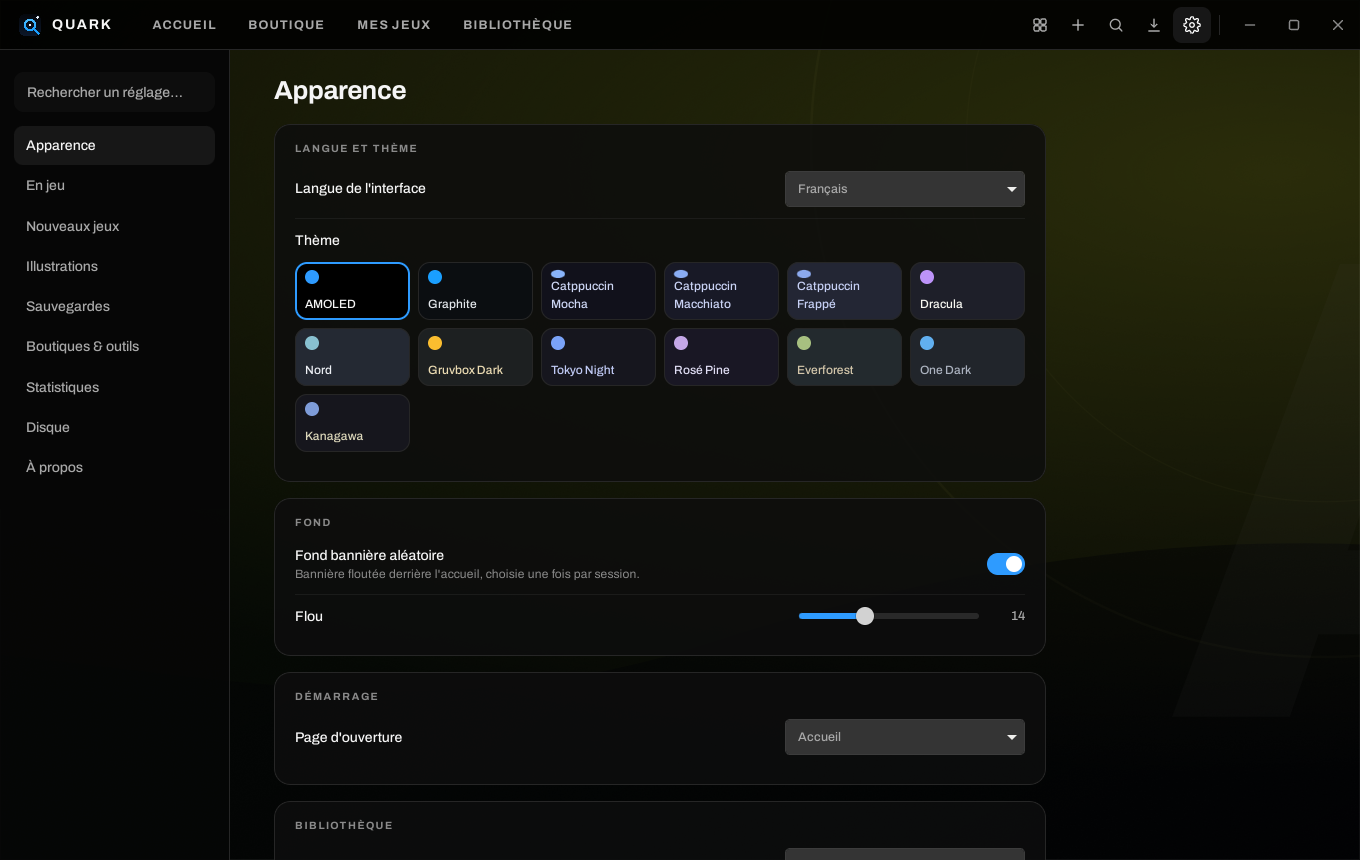
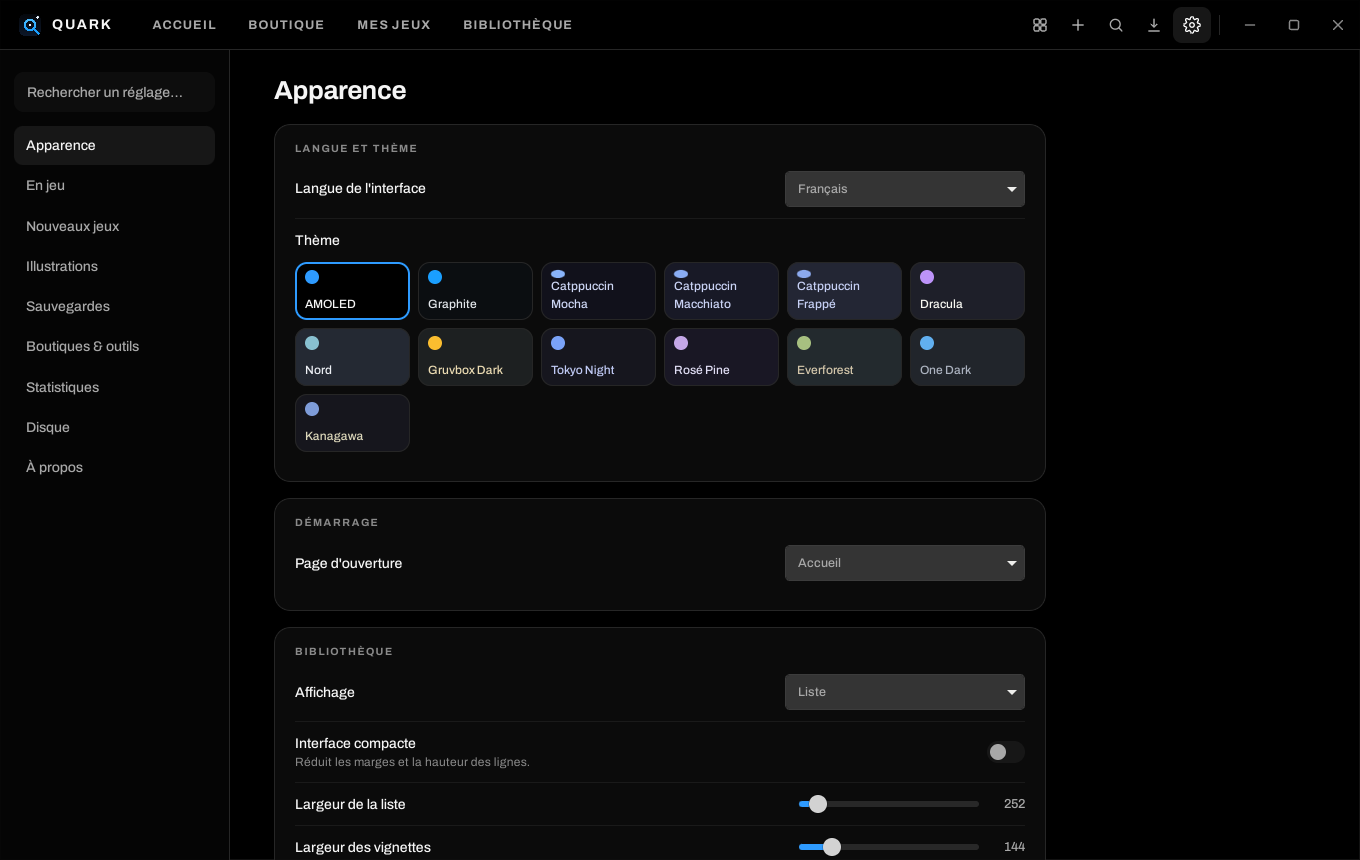
feat(ui): remove random hero background

diff --git a/quark-tauri/ui/settings.js b/quark-tauri/ui/settings.js
@@ -15,7 +15,6 @@ function tabsDef() {
     appearance: () => [
       card(L("Langue et thème", "Language and theme"), selk("ui_language", L("Langue de l'interface", "Interface language"), app.data.languages.map((l) => [l.id, l.label])),
         `<div class="sw col" data-s="theme thème"><span>${esc(t("settings.theme"))}</span><div class="themes">${app.data.themes.map((th) => `<button class="th${th.id === c.theme ? " on" : ""}" data-theme="${th.id}" style="background:${th.vars.bg};color:${th.vars.text}"><i style="background:${th.vars.accent}"></i>${esc(th.label)}</button>`).join("")}</div></div>`),
-      card(L("Fond", "Background"), swk("hero_background", L("Fond bannière aléatoire", "Random hero background"), L("Bannière floutée derrière l'accueil, choisie une fois par session.", "Blurred banner behind Home, picked once per session.")), rangek("hero_background_blur", L("Flou", "Blur"), 0, 40, 1)),
       card(L("Démarrage", "Startup"), selk("start_page", L("Page d'ouverture", "Startup page"), [["home", t("x.home")], ["library", t("nav.library")], ["store", t("x.store")], ["my_games", t("x.mygames")]])),
       card(t("nav.library"), selk("view", L("Affichage", "Layout"), [["list", L("Liste", "List")], ["grid", L("Grille", "Grid")]]), swk("ui_compact", t("settings.compact"), t("settings.compactHint")),
         rangek("sidebar_width", L("Largeur de la liste", "List width"), 240, 420, 10), rangek("grid_tile_width", L("Largeur des vignettes", "Tile width"), 120, 260, 10),
@@ -109,7 +108,7 @@ function bindSettings() {
   const root = $("#sheet");
   bindModel(root, app.cfg, (k) => {
     const top = k.split(".")[0], patch = { [top]: app.cfg[top] };
-    run(() => cfgSet(patch)).then(() => { if (k === "tray_icon") invoke("tray_visibility", { visible: !!app.cfg.tray_icon }).catch(() => {}); if (k === "deck_mode") { QuarkDeck.mode(app.cfg.deck_mode); renderTop(); } else if (k === "ui_language" || k === "ui_compact" || k === "game_actions") { renderAllKeepScroll(); } else if (k === "view") renderTop(); else if (k === "hero_background") applySettings(); });
+    run(() => cfgSet(patch)).then(() => { if (k === "tray_icon") invoke("tray_visibility", { visible: !!app.cfg.tray_icon }).catch(() => {}); if (k === "deck_mode") { QuarkDeck.mode(app.cfg.deck_mode); renderTop(); } else if (k === "ui_language" || k === "ui_compact" || k === "game_actions") { renderAllKeepScroll(); } else if (k === "view") renderTop(); });
   });
   $$('[data-k="screenshot_key"]', root).forEach((el) =>
     el.addEventListener("change", () => run(async () => {

diff --git a/quark-tauri/ui/core.js b/quark-tauri/ui/core.js
@@ -28,7 +28,7 @@ Object.assign(I18N.en, {
 });
 
 const app = { data: null, cfg: {}, lang: "fr", view: "library", sel: null, query: "", f: { status: "", genre: "", tag: "", fav: false }, running: new Map(), tab: "overview", marked: new Set(),
-  cache: {}, transfers: new Map(), open: true, collapsed: new Set(), pal: null, bgGame: null, stab: "appearance", sq: "" };
+  cache: {}, transfers: new Map(), open: true, collapsed: new Set(), pal: null, stab: "appearance", sq: "" };
 const $ = (s, r = document) => r.querySelector(s);
 const $$ = (s, r = document) => Array.from(r.querySelectorAll(s));
 const esc = (v) => String(v ?? "").replace(/[&<>"']/g, (c) => ({ "&": "&amp;", "<": "&lt;", ">": "&gt;", '"': "&quot;", "'": "&#39;" })[c]);
@@ -136,9 +136,7 @@ function applySettings() {
   for (const [k, v] of Object.entries(th.vars)) root.setProperty(`--${k}`, v);
   const lum = (h) => { const n = parseInt(h.slice(1), 16); return (0.299 * (n >> 16) + 0.587 * ((n >> 8) & 255) + 0.114 * (n & 255)) / 255; };
   root.setProperty("--on-accent", lum(th.vars.accent) > 0.6 ? "#05070a" : "#fff");
-  root.setProperty("--bgblur", `${Math.round(c.hero_background_blur ?? 18)}px`);
   root.setProperty("--sidew", `${Math.round(c.sidebar_width || 300)}px`);
   document.body.classList.toggle("compact", !!c.ui_compact);
   app.lang = LANGS[c.ui_language] || "fr"; document.documentElement.lang = app.lang;
-  const bg = $("#bg"); if (bg) { const g = app.bgGame && game(app.bgGame); bg.style.backgroundImage = c.hero_background && g && g.heroUrl ? `url('${g.heroUrl}')` : "none"; }
 }

diff --git a/quark-tauri/ui/styles.css b/quark-tauri/ui/styles.css
@@ -12,7 +12,6 @@ button,input,select,textarea{font:inherit;color:inherit;background:none;border:0
 button{cursor:pointer}
 .ic{width:18px;height:18px;fill:none;stroke:currentColor;stroke-width:1.8;stroke-linecap:round;stroke-linejoin:round;flex:none}
 .ic.on{fill:currentColor}
-#bg{position:absolute;inset:0;background:center/cover;opacity:.3;z-index:0;pointer-events:none}
 .rz{position:fixed;z-index:60}
 /* ---------- barre du haut ---------- */
 #top{position:relative;z-index:30;height:50px;flex:none;display:flex;align-items:center;gap:26px;padding:0 0 0 18px;background:color-mix(in srgb,var(--bg) 88%,transparent);border-bottom:1px solid var(--border)}

diff --git a/quark-tauri/ui/app.js b/quark-tauri/ui/app.js
@@ -163,7 +163,6 @@ async function boot() {
   app.data = await invoke("bootstrap_data");
   Object.assign(app.cfg, await invoke("get_settings_raw"));
   setRunning(app.data.running);
-  const withHero = app.data.games.filter((g) => g.heroUrl); app.bgGame = withHero.length ? withHero[Math.floor(Math.random() * withHero.length)].id : null;
   applySettings();
   app.view = ({ home: "home", library: "library", store: "store", my_games: "mygames" })[app.cfg.start_page] || "library";
   let saved = null; try { saved = localStorage.getItem("quark.sel"); } catch {}

diff --git a/quark-tauri/ui/index.html b/quark-tauri/ui/index.html
@@ -9,7 +9,6 @@
 </head>
 <body data-view="library">
   <div id="shell">
-  <div id="bg"></div>
   <header id="top">
     <div class="brand"><img src="quark.png" alt=""><b>QUARK</b></div>
     <nav id="top-tabs"></nav>

diff --git a/quark-tauri/src/main.rs b/quark-tauri/src/main.rs
@@ -411,7 +411,6 @@ struct SettingsDto {
     theme: String,
     ui_language: String,
     compact: bool,
-    hero_background: bool,
     start_page: String,
     view: String,
 }
@@ -637,7 +636,6 @@ fn settings_dto(settings: &Settings) -> SettingsDto {
         theme: snake(&settings.theme),
         ui_language: snake(&settings.ui_language),
         compact: settings.ui_compact,
-        hero_background: settings.hero_background,
         start_page: snake(&settings.start_page),
         view: snake(&settings.view),
     }
@@ -1115,7 +1113,6 @@ struct SettingsPatch {
     theme: Option<String>,
     ui_language: Option<String>,
     compact: Option<bool>,
-    hero_background: Option<bool>,
     start_page: Option<String>,
     view: Option<String>,
 }
@@ -1136,9 +1133,6 @@ fn save_settings(state: State<'_, AppState>, patch: SettingsPatch) -> Result<Set
         }
         if let Some(compact) = patch.compact {
             settings.ui_compact = compact;
-        }
-        if let Some(hero) = patch.hero_background {
-            settings.hero_background = hero;
         }
         if let Some(start_page) = patch.start_page {
             settings.start_page = serde_json::from_value(serde_json::Value::String(start_page))
@@ -1797,7 +1791,6 @@ fn demo_library(root: &Path, with_games: bool) -> Library {
         .unwrap_or(UiLanguage::French);
     library.settings.theme = ThemeMode::Amoled;
     library.settings.ui_compact = false;
-    library.settings.hero_background = true;
     if !with_games {
         return library;
     }

diff --git a/src/config.rs b/src/config.rs
@@ -1086,10 +1086,6 @@ pub struct Settings {
     /// « Mes jeux » en liste (une ligne par jeu, bouton d'action visible) au lieu
     /// de la grille de jaquettes. Vrai par défaut : la liste compacte.
     pub my_games_list: bool,
-    /// Affiche un hero aléatoire flouté derrière l'accueil et la bibliothèque.
-    pub hero_background: bool,
-    /// Rayon du flou du fond, en pixels logiques.
-    pub hero_background_blur: f32,
     /// Interface resserrée : moins de marges et d'espacement, sans toucher aux
     /// tailles de police. Vrai par défaut pour une fenêtre plus dense.
     pub ui_compact: bool,
@@ -1208,8 +1204,6 @@ impl Default for Settings {
             onboarding_done: false,
             last_seen_version: String::new(),
             my_games_list: true,
-            hero_background: false,
-            hero_background_blur: 14.0,
             ui_compact: true,
             sidebar_width: 252.0,
             sidebar_row_height: 44.0,
@@ -2634,8 +2628,6 @@ mod tests {
         assert_eq!(lib.settings.ui_language, UiLanguage::French);
         assert!(!lib.settings.onboarding_done);
         assert!(lib.settings.last_seen_version.is_empty());
-        assert!(!lib.settings.hero_background);
-        assert!(lib.settings.hero_background_blur > 0.0);
 
         // Une bibliothèque existante est considérée comme déjà accueillie :
         // la mise à jour ne lui impose pas le parcours de première installation.

diff --git a/README.md b/README.md
@@ -95,10 +95,10 @@ being published.
   and after a session, with preview, inventory and restore.
 - **A sober, configurable interface.** Thirteen dark themes, six interface
   languages (French, English, Spanish, German, Portuguese and Russian), compact
-  spacing and adjustable panel sizes, list or grid, a home carousel, a random
-  blurred hero background, HowLongToBeat times in the game overview, status
-  columns, tags, filters, a global search palette (Ctrl+K/Ctrl+F) and an
-  embedded Archivo font with Lucide icons.
+  spacing and adjustable panel sizes, list or grid, a home carousel,
+  HowLongToBeat times in the game overview, status columns, tags, filters, a
+  global search palette (Ctrl+K/Ctrl+F) and an embedded Archivo font with
+  Lucide icons.
 
 Quark is not a store: it never buys anything, and it never downloads or
 extracts games from third-party download sites. Store search results open in
@@ -199,10 +199,6 @@ set in **Settings → Appearance**.
 opens at launch: **Home** (the default), **Library**, **Store** or **My games**.
 The choice is applied once when the window opens and is saved with the library;
 an older configuration without the setting starts on Home.
-
-**Random hero background.** Appearance → Background can reuse a library banner
-as a blurred backdrop behind Home and Library. One banner is picked per session;
-the blur radius is adjustable from 2 to 30 px and is part of the blur cache key.
 
 ### Library
 
@@ -411,8 +407,8 @@ accented headings. A search field above the sidebar finds a setting by task
 content scrolls independently and `Esc` or the top-right **×** closes the page.
 
 - **Appearance:** interface language, 13 themes, interface size (compact mode,
-  sidebar, rows, covers, banner and overview widths), random hero background,
-  startup page, list/grid, carousel, notification icon.
+  sidebar, rows, covers, banner and overview widths), startup page, list/grid,
+  carousel, notification icon.
 - **In game:** screenshot shortcut, achievement display and cloud-save
   toggle.
 - **New games:** defaults copied into each newly added game.
@@ -425,8 +421,8 @@ content scrolls independently and `Esc` or the top-right **×** closes the page.
 ![Appearance settings](docs/images/settings-en.png)
 
 **Appearance** contains the startup page, interface language, 13-theme grid,
-interface size controls, random hero background, default view, default game
-tab, home carousel and notification icon. **In game** contains the screenshot
+interface size controls, default view, default game tab, home carousel and
+notification icon. **In game** contains the screenshot
 shortcut, achievement display and cloud-save toggle. **New games** contains the values copied into
 each newly added game (prefix, install folder, arguments, runtime, anti-cheat,
 launch options, environment variables). These are defaults, not global
@@ -468,10 +464,10 @@ and exits with code 1 when the title is ambiguous or unknown. `quark list` print
 the status and playtime of every game.
 
 `--ui` accepts `--demo`, `--view`, `--group`, `--tab`, `--theme`, `--lang`,
-`--select`, `--dialog`, `--hero-bg`, `--blur`, `--size`, `--frames`, `--hover`,
-`--click` and `--key`; `--demo` uses a temporary configuration and never reads or
-writes the real library. `--group` accepts `status`, `store`, `genre`, `year` or
-`none`; `--lang` accepts `fr`, `en`, `de`, `es` or `pt`; `--blur` is a 2–30 px radius.
+`--select`, `--dialog`, `--size`, `--frames`, `--hover`, `--click` and `--key`;
+`--demo` uses a temporary configuration and never reads or writes the real
+library. `--group` accepts `status`, `store`, `genre`, `year` or
+`none`; `--lang` accepts `fr`, `en`, `de`, `es` or `pt`.
 `--dialog` includes `onboarding`, `onboarding-settings` and `whats-new` for the
 new screens.
 

diff --git a/wiki/Themes-and-Appearance.md b/wiki/Themes-and-Appearance.md
@@ -57,24 +57,6 @@ game's own accent colour: it is still computed from its artwork.
 
 ![Appearance in English](https://raw.githubusercontent.com/Matheotaku4/Quark/main/docs/images/settings-en.png)
 
-## Random hero background
-
-**Appearance → Background → Random hero background** adds a blurred banner
-behind Home and Library.
-
-- Quark picks a banner from the library artwork.
-- The pick is made **once per session**: restarting Quark changes the image,
-  switching pages does not.
-- The **Blur** slider sets the radius from 2 to 30 px. The blur cache includes
-  the radius, so changing it does not reuse the previous render.
-- A dark veil is applied between the image and the content to keep text
-  readable; the bottom of the page is darker than the top.
-- If the library contains no artwork, no background is drawn: the theme keeps
-  its normal background.
-
-The background is decorative. It does not replace a game's banner or the library
-covers.
-
 ## Startup page
 
 **Appearance → Startup → Startup page**:
@@ -123,8 +105,7 @@ To return to the defaults without losing the library:
 
 1. **Settings → Appearance**.
 2. Choose **AMOLED**, **Home** and the **List** view.
-3. Disable the random hero background.
-4. If needed, set the language back to French.
+3. If needed, set the language back to French.
 
 There is no "reset everything" button that erases the library. A full reset would
 mean deleting `config.json`, which also deletes games, installations, views and

diff --git a/wiki/Home.md b/wiki/Home.md
@@ -43,7 +43,7 @@ repository under [`wiki/`](https://github.com/Matheotaku4/Quark/tree/main/wiki).
 | Understand the list, grid, views and filters | [Library and views](Library-and-Views) |
 | Use Steam, Epic, GOG, accounts and cloud saves | [Stores and saves](Stores-and-Saves) |
 | Configure Proton, umu, Wine, variables and launch options | [Proton, Wine and launch options](Proton-Wine-and-Launch-Options) |
-| Change themes, language, hero background or startup page | [Themes and appearance](Themes-and-Appearance) |
+| Change themes, language or startup page | [Themes and appearance](Themes-and-Appearance) |
 | Read achievements and the Epic overlay | [Achievements](Achievements) |
 | Find every settings page | [Settings](Settings) |
 | Fix a game that will not start, a missing text or a save issue | [Troubleshooting](Troubleshooting) |
@@ -65,7 +65,7 @@ repository under [`wiki/`](https://github.com/Matheotaku4/Quark/tree/main/wiki).
   before and after a session.
 - **A configurable interface.** Thirteen dark themes, six interface languages
   (French, English, Spanish, German, Portuguese and Russian), list or grid, a
-  customizable home page, a random blurred hero and a `Ctrl+K` command palette.
+  customizable home page and a `Ctrl+K` command palette.
 - **A launcher, not a store.** Quark never buys anything and never downloads a
   game from a third-party site. Store search results open in your browser.
 

diff --git a/wiki/Getting-Started.md b/wiki/Getting-Started.md
@@ -96,7 +96,7 @@ use the **Launch** tab.
 Every page is described in [Settings](Settings). The most useful ones at the
 beginning:
 
-- **Appearance**: language, theme, startup page, random hero, home page.
+- **Appearance**: language, theme, startup page and home page.
 - **New games**: values copied into each new game. These are not global
   settings: changing a default does not affect existing games.
 - **Stores & tools**: accounts, synchronization, Legendary, gogdl and Ludusavi.
@@ -107,8 +107,7 @@ beginning:
 
 - [Library and views](Library-and-Views) to organize games.
 - [Stores and saves](Stores-and-Saves) for Epic, GOG and cloud saves.
-- [Themes and appearance](Themes-and-Appearance) for the thirteen themes and the
-  hero background.
+- [Themes and appearance](Themes-and-Appearance) for the thirteen themes.
 
 ---
 

diff --git a/wiki/Troubleshooting.md b/wiki/Troubleshooting.md
@@ -91,14 +91,6 @@ rather than failing. A missing Proton runtime, however, prevents the launch.
   data or a newly added string without a catalogue entry. Note the page and exact
   text to report it.
 
-## The random hero background does not appear
-
-- The library needs at least one banner artwork.
-- The background is drawn behind Home and Library; it can be subtle under cards
-  and the readability veil.
-- The pick changes on restart, not on every navigation.
-- Increase the blur or check that the option is enabled in **Appearance**.
-
 ## Settings
 
 Settings fill the window and scroll. If the **Close** button is not visible,
